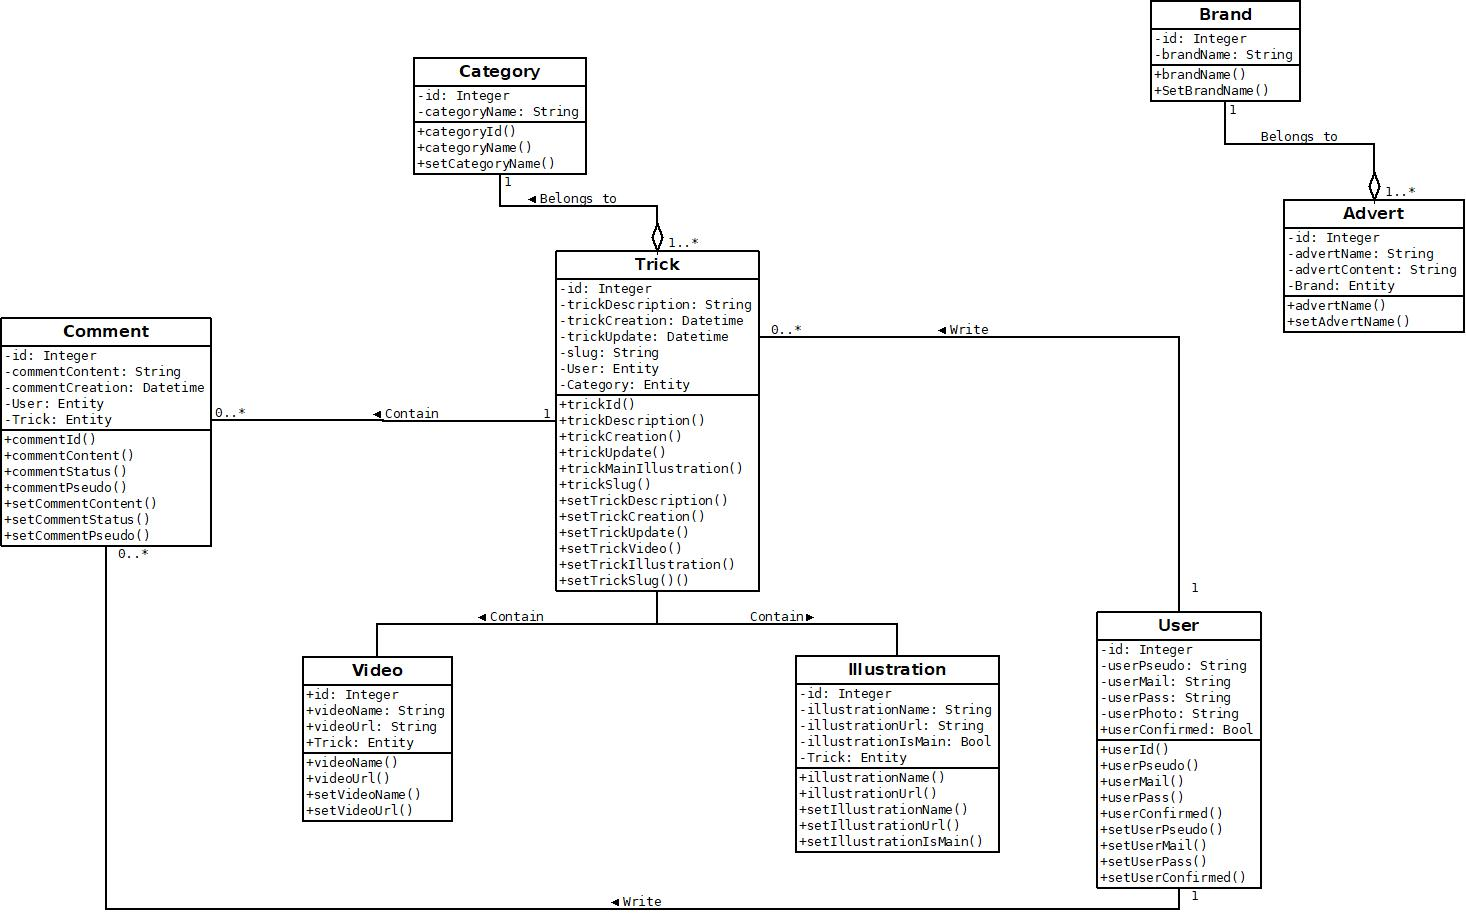
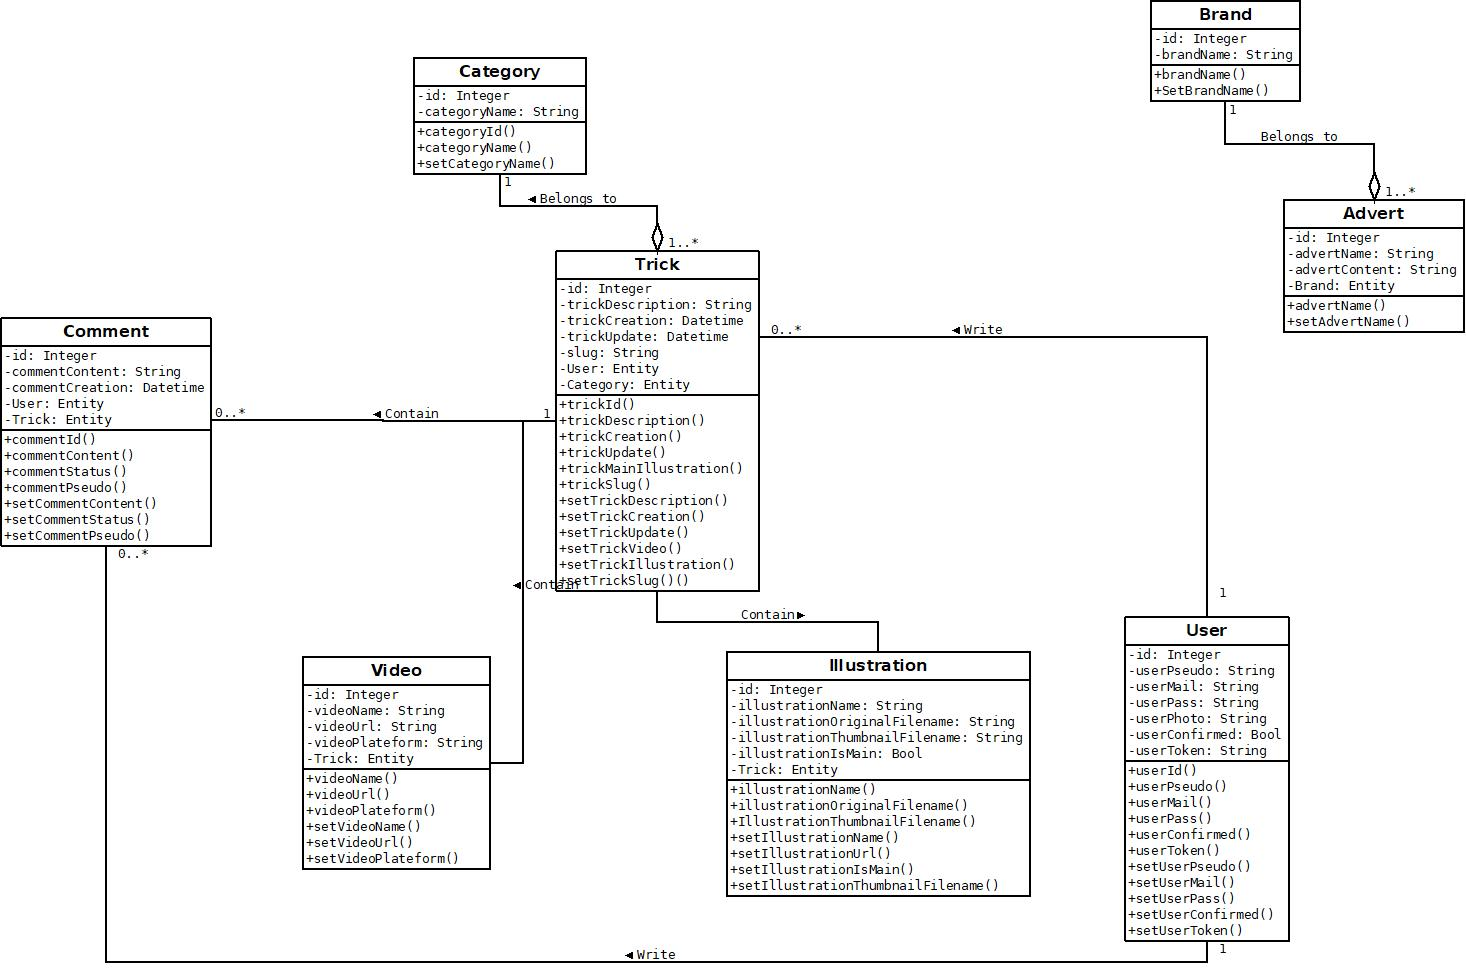
Modify video/illustration entities

diff --git a/SnowTricks/src/Domain/Entity/Trick.php b/SnowTricks/src/Domain/Entity/Trick.php
@@ -61,24 +61,24 @@ class Trick
     /**
      * @ORM\OneToMany(targetEntity="App\Domain\Entity\Video", mappedBy="trick")
      */
-    private $videos;
+    private $video;
 
     /**
      * @ORM\OneToMany(targetEntity="App\Domain\Entity\Illustration", mappedBy="trick")
      */
-    private $illustrations;
+    private $illustration;
 
     /**
      * @ORM\OneToMany(targetEntity="App\Domain\Entity\Comment", mappedBy="trick", orphanRemoval=true)
      */
-    private $comments;
+    private $comment;
 
 
     public function __construct()
     {
-        $this->videos = new ArrayCollection();
-        $this->illustrations = new ArrayCollection();
-        $this->comments = new ArrayCollection();
+        $this->video = new ArrayCollection();
+        $this->illustration = new ArrayCollection();
+        $this->comment = new ArrayCollection();
     }
 
 
@@ -150,15 +150,15 @@ class Trick
     /**
      * @return Collection|Video[]
      */
-    public function getVideos(): Collection
+    public function getVideo(): Collection
     {
-        return $this->videos;
+        return $this->video;
     }
 
     public function addVideo(Video $video): self
     {
-        if (!$this->videos->contains($video)) {
-            $this->videos[] = $video;
+        if (!$this->video->contains($video)) {
+            $this->video[] = $video;
             $video->setTrick($this);
         }
 
@@ -167,8 +167,8 @@ class Trick
 
     public function removeVideo(Video $video): self
     {
-        if ($this->videos->contains($video)) {
-            $this->videos->removeElement($video);
+        if ($this->video->contains($video)) {
+            $this->video->removeElement($video);
             // set the owning side to null (unless already changed)
             if ($video->getTrick() === $this) {
                 $video->setTrick(null);
@@ -181,15 +181,15 @@ class Trick
     /**
      * @return Collection|Illustration[]
      */
-    public function getIllustrations(): Collection
+    public function getIllustration(): Collection
     {
-        return $this->illustrations;
+        return $this->illustration;
     }
 
     public function addIllustration(Illustration $illustration): self
     {
-        if (!$this->illustrations->contains($illustration)) {
-            $this->illustrations[] = $illustration;
+        if (!$this->illustration->contains($illustration)) {
+            $this->illustration[] = $illustration;
             $illustration->setTrick($this);
         }
 
@@ -198,8 +198,8 @@ class Trick
 
     public function removeIllustration(Illustration $illustration): self
     {
-        if ($this->illustrations->contains($illustration)) {
-            $this->illustrations->removeElement($illustration);
+        if ($this->illustration->contains($illustration)) {
+            $this->illustration->removeElement($illustration);
             // set the owning side to null (unless already changed)
             if ($illustration->getTrick() === $this) {
                 $illustration->setTrick(null);
@@ -214,13 +214,13 @@ class Trick
      */
     public function getComments(): Collection
     {
-        return $this->comments;
+        return $this->comment;
     }
 
     public function addComment(Comment $comment): self
     {
-        if (!$this->comments->contains($comment)) {
-            $this->comments[] = $comment;
+        if (!$this->comment->contains($comment)) {
+            $this->comment[] = $comment;
             $comment->setTrick($this);
         }
 
@@ -229,8 +229,8 @@ class Trick
 
     public function removeComment(Comment $comment): self
     {
-        if ($this->comments->contains($comment)) {
-            $this->comments->removeElement($comment);
+        if ($this->comment->contains($comment)) {
+            $this->comment->removeElement($comment);
             // set the owning side to null (unless already changed)
             if ($comment->getTrick() === $this) {
                 $comment->setTrick(null);

diff --git a/SnowTricks/src/Domain/Entity/Illustration.php b/SnowTricks/src/Domain/Entity/Illustration.php
@@ -24,7 +24,12 @@ class Illustration
     /**
      * @ORM\Column(type="string", length=255)
      */
-    private $illustrationUrl;
+    private $illustrationOriginalFilename;
+
+    /**
+     * @ORM\Column(type="string", length=255)
+     */
+    private $illustrationThumbnailFilename;
 
     /**
      * @ORM\Column(type="boolean")
@@ -53,14 +58,25 @@ class Illustration
         return $this;
     }
 
-    public function getIllustrationUrl(): ?string
+    public function getIllustrationOriginalFilename(): ?string
     {
-        return $this->illustrationUrl;
+        return $this->illustrationOriginalFilename;
     }
 
-    public function setIllustrationUrl(string $illustrationUrl): self
+    public function setIllustrationOriginalFilename(string $illustrationOriginalFilename): self
     {
-        $this->illustrationUrl = $illustrationUrl;
+        $this->illustrationOriginalFilename = $illustrationOriginalFilename;
+
+        return $this;
+    }
+    public function getIllustrationThumbnailFilename(): ?string
+    {
+        return $this->illustrationThumbnailFilename;
+    }
+
+    public function setIllustrationThumbnailFilename(string $illustrationThumbnailFilename): self
+    {
+        $this->illustrationThumbnailFilename = $illustrationThumbnailFilename;
 
         return $this;
     }

diff --git a/SnowTricks/src/Domain/Migrations/Version20190111153648.php b/SnowTricks/src/Domain/Migrations/Version20190111153648.php
@@ -1,0 +1,28 @@
+<?php declare(strict_types=1);
+
+namespace DoctrineMigrations;
+
+use Doctrine\DBAL\Schema\Schema;
+use Doctrine\Migrations\AbstractMigration;
+
+/**
+ * Auto-generated Migration: Please modify to your needs!
+ */
+final class Version20190111153648 extends AbstractMigration
+{
+    public function up(Schema $schema) : void
+    {
+        // this up() migration is auto-generated, please modify it to your needs
+        $this->abortIf($this->connection->getDatabasePlatform()->getName() !== 'mysql', 'Migration can only be executed safely on \'mysql\'.');
+
+        $this->addSql('ALTER TABLE illustration ADD illustration_thumbnail_filename VARCHAR(255) NOT NULL, CHANGE illustration_url illustration_original_filename VARCHAR(255) NOT NULL');
+    }
+
+    public function down(Schema $schema) : void
+    {
+        // this down() migration is auto-generated, please modify it to your needs
+        $this->abortIf($this->connection->getDatabasePlatform()->getName() !== 'mysql', 'Migration can only be executed safely on \'mysql\'.');
+
+        $this->addSql('ALTER TABLE illustration ADD illustration_url VARCHAR(255) NOT NULL COLLATE utf8mb4_unicode_ci, DROP illustration_original_filename, DROP illustration_thumbnail_filename');
+    }
+}

diff --git a/SnowTricks/src/Domain/DataFixtures/Fixtures.php b/SnowTricks/src/Domain/DataFixtures/Fixtures.php
@@ -73,15 +73,17 @@ class Fixtures extends Fixture
             $video = new Video();
             $video->setVideoName($trick->getTrickName() . '-Video');
             //pick a random video
-            $videos = array('https://youtu.be/CzDjM7h_Fwo', 'https://youtu.be/ejWLQXRJ7Qw', 'https://youtu.be/2vXns5BJ__U');
+            $videos = array('CzDjM7h_Fwo', 'ejWLQXRJ7Qw', '2vXns5BJ__U');
             $rand = array_rand($videos, 1);
             $video->setVideoUrl($videos[$rand]);
+            $video->setVideoPlatform('youtube');
             $video->setTrick($trick);
 
             // create 5 illustration
             $illustration = new Illustration();
             $illustration->setIllustrationName($trick->getTrickName() . '-Illustration');
-            $illustration->setIllustrationUrl('illustration' . $i . '.jpg');
+            $illustration->setIllustrationOriginalFilename('illustration' . $i . '.jpg');
+            $illustration->setIllustrationThumbnailFilename('thumbnail-illustration' . $i . '.jpg');
             $illustration->setIllustrationIsMain(true);
             $illustration->setTrick($trick);
 

diff --git a/SnowTricks/src/Domain/Migrations/Version20190111142059.php b/SnowTricks/src/Domain/Migrations/Version20190111142059.php
@@ -1,0 +1,28 @@
+<?php declare(strict_types=1);
+
+namespace DoctrineMigrations;
+
+use Doctrine\DBAL\Schema\Schema;
+use Doctrine\Migrations\AbstractMigration;
+
+/**
+ * Auto-generated Migration: Please modify to your needs!
+ */
+final class Version20190111142059 extends AbstractMigration
+{
+    public function up(Schema $schema) : void
+    {
+        // this up() migration is auto-generated, please modify it to your needs
+        $this->abortIf($this->connection->getDatabasePlatform()->getName() !== 'mysql', 'Migration can only be executed safely on \'mysql\'.');
+
+        $this->addSql('ALTER TABLE video ADD video_platform VARCHAR(255) NOT NULL');
+    }
+
+    public function down(Schema $schema) : void
+    {
+        // this down() migration is auto-generated, please modify it to your needs
+        $this->abortIf($this->connection->getDatabasePlatform()->getName() !== 'mysql', 'Migration can only be executed safely on \'mysql\'.');
+
+        $this->addSql('ALTER TABLE video DROP video_platform');
+    }
+}

diff --git a/SnowTricks/src/Domain/Entity/Video.php b/SnowTricks/src/Domain/Entity/Video.php
@@ -27,6 +27,11 @@ class Video
     private $videoUrl;
 
     /**
+     * @ORM\Column(type="string", length=255)
+     */
+    private $videoPlatform;
+
+    /**
      * @ORM\ManyToOne(targetEntity="App\Domain\Entity\Trick", inversedBy="videos")
      */
     private $trick;
@@ -59,6 +64,19 @@ class Video
 
         return $this;
     }
+
+    public function getVideoPlatform(): ?string
+    {
+        return $this->videoPlatform;
+    }
+
+    public function setVideoPlatform(string $videoPlatform): self
+    {
+        $this->videoPlatform = $videoPlatform;
+
+        return $this;
+    }
+
 
     public function getTrick(): ?Trick
     {

diff --git a/SnowTricks/src/Domain/Form/FormHandler/UpdateUserHandler.php b/SnowTricks/src/Domain/Form/FormHandler/UpdateUserHandler.php
@@ -7,8 +7,8 @@ use App\Domain\Form\FormType\UpdateUserMailType;
 use App\Domain\Form\FormType\UpdateUserPhotoType;
 use App\Domain\Form\FormType\UpdateUserPassType;
 use App\Domain\Form\Model\ChangePassword;
-use App\Domain\Image\ImageBuilder;
-use App\Domain\Image\ThumbnailGenerator;
+use App\Domain\Tools\Image\ImageBuilder;
+use App\Domain\Tools\Image\ThumbnailGenerator;
 use App\Domain\Repository\UserRepository;
 use Symfony\Component\Form\FormFactoryInterface;
 use Symfony\Component\HttpFoundation\Request;

diff --git a/SnowTricks/src/Responder/TrickResponder.php b/SnowTricks/src/Responder/TrickResponder.php
@@ -9,7 +9,7 @@ class TrickResponder extends Responder
 
     public function trickListView(array $trickList = []): Response
     {
-        return new Response($this->twig->render('trick_list.html.twig', array('trickList' => $trickList)));
+        return new Response($this->twig->render('trick/trick_list.html.twig', array('trickList' => $trickList)));
     }
 
     public function trickDetailsView($trickDetails): Response

diff --git a/SnowTricks/src/Domain/Tools/Image/ImageBuilder.php b/SnowTricks/src/Domain/Tools/Image/ImageBuilder.php
@@ -1,6 +1,6 @@
 <?php
 
-namespace App\Domain\Image;
+namespace App\Domain\Tools\Image;
 
 use Symfony\Component\HttpFoundation\File\Exception\FileException;
 use Symfony\Component\HttpFoundation\File\UploadedFile;

diff --git a/SnowTricks/src/Domain/Tools/Image/ThumbnailGenerator.php b/SnowTricks/src/Domain/Tools/Image/ThumbnailGenerator.php
@@ -1,7 +1,7 @@
 <?php
 
 
-namespace App\Domain\Image;
+namespace App\Domain\Tools\Image;
 
 
 class ThumbnailGenerator
